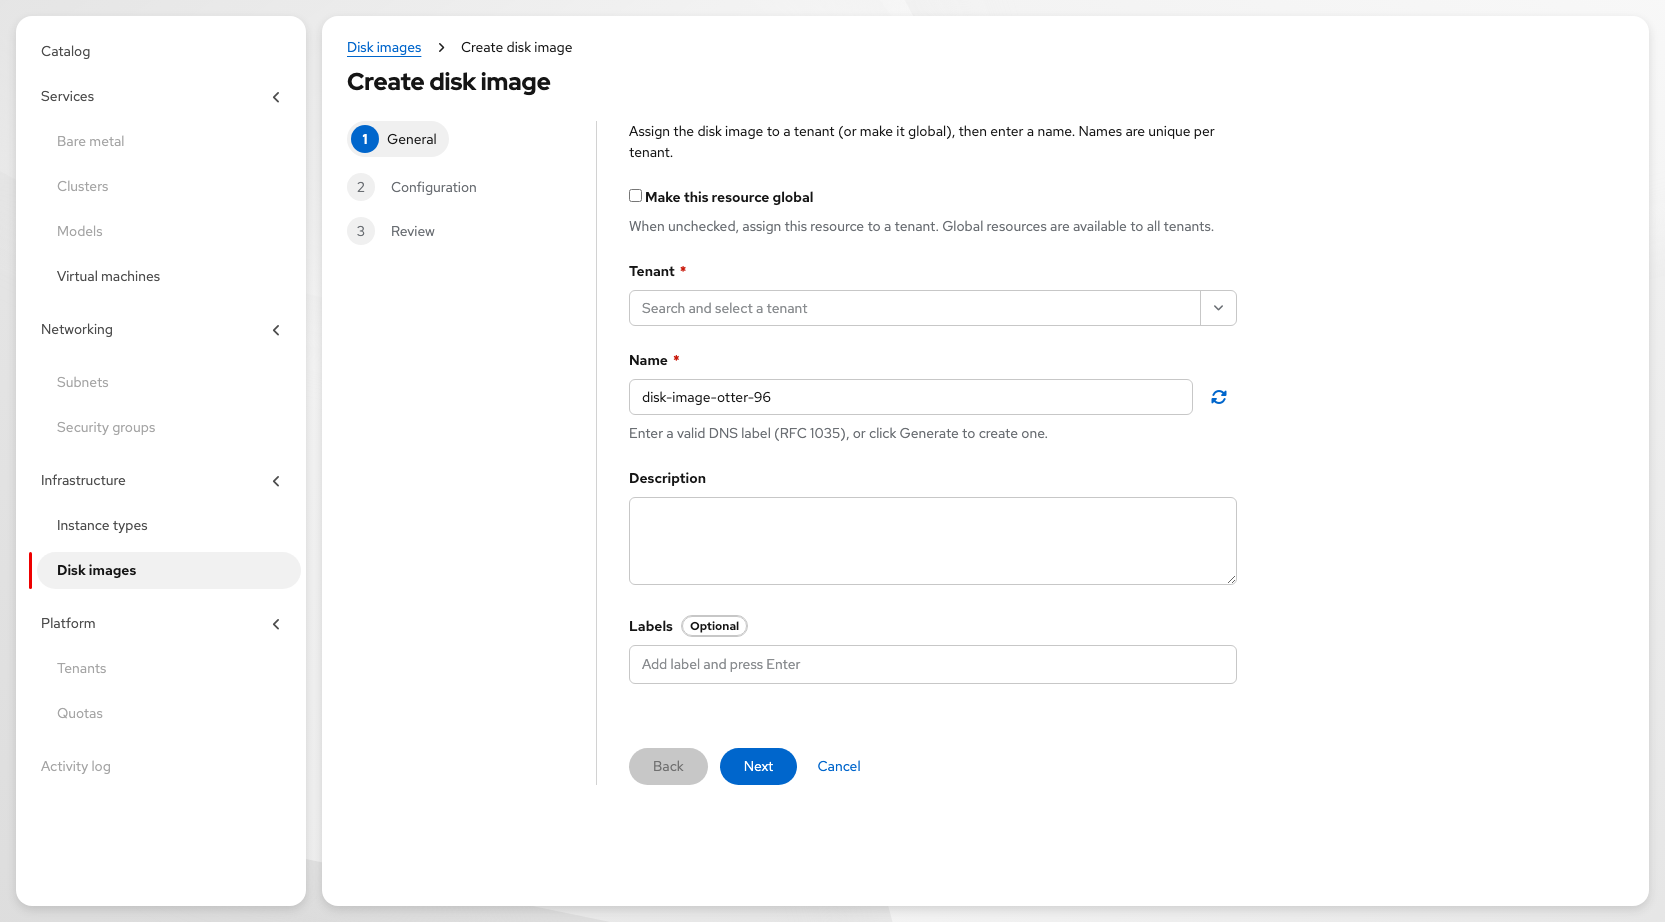
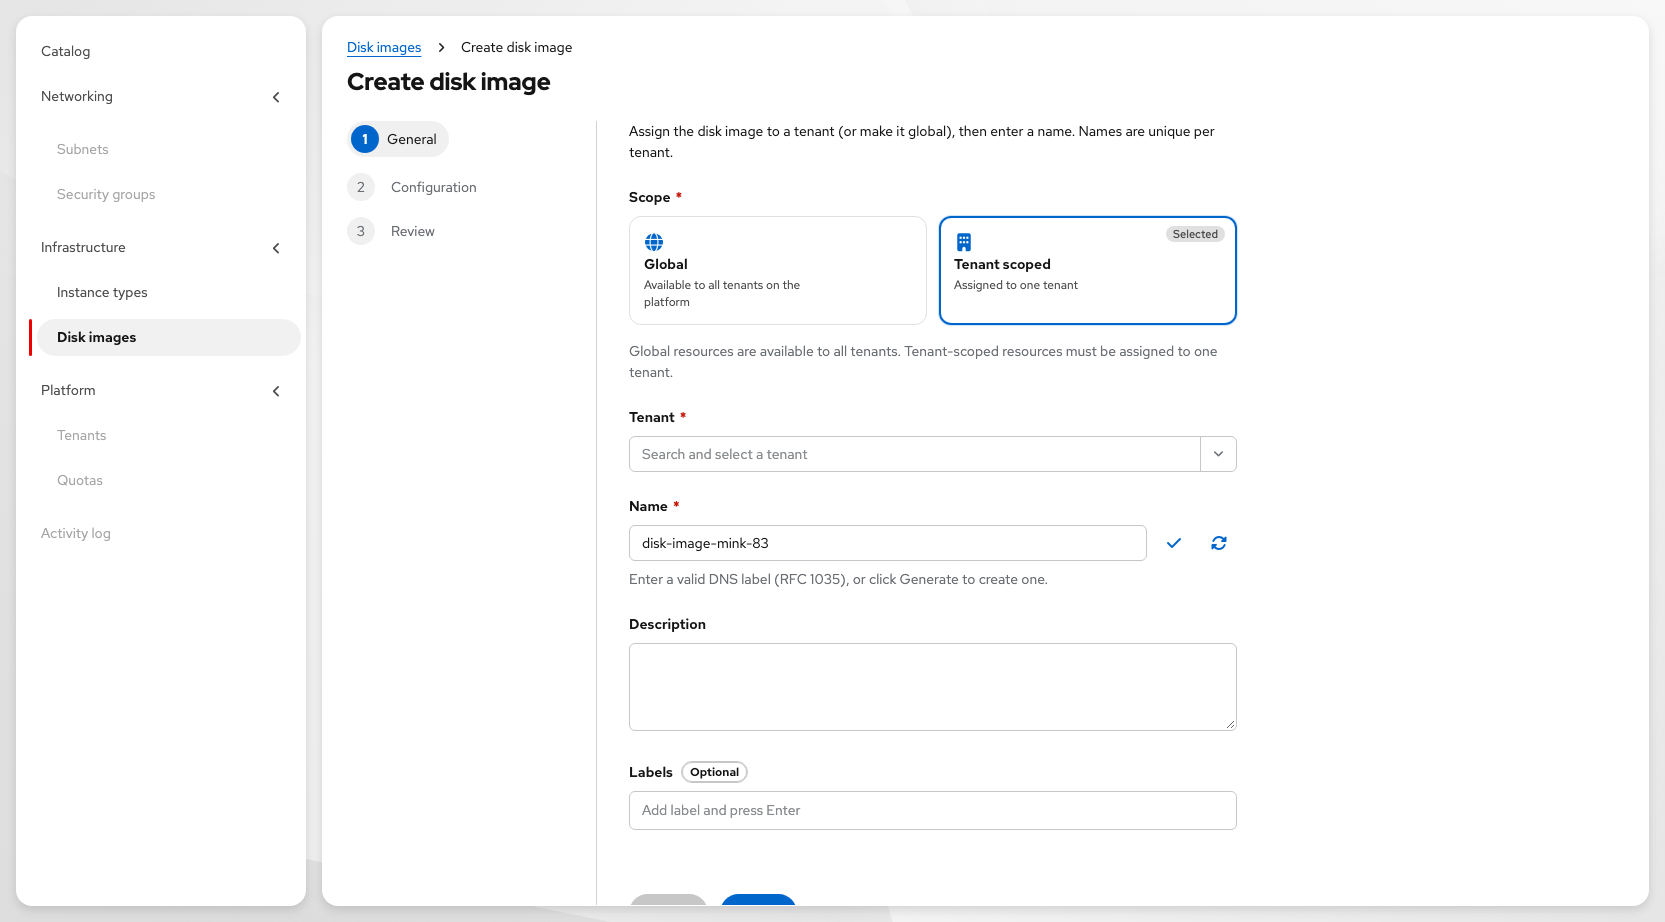
Refresh OSAC-2810 Disk images handoff and screenshots.

diff --git a/osac-2810-disk-image-handoff.md b/osac-2810-disk-image-handoff.md
@@ -10,7 +10,7 @@
 | **Parent epic** | [OSAC-2807](https://redhat.atlassian.net/browse/OSAC-2807) — *DiskImage resource… — Bootstrap* |
 | **Feature** | [OSAC-2540](https://redhat.atlassian.net/browse/OSAC-2540) — *DiskImage resource for disk image metadata management* |
 | **Scope of this handoff** | Provider **Disk images** UX in the shared mock (list · create · detail · lifecycle), as specified in the Disk images UX tab |
-| **Interactive mock** | [vmaas-ux-prototype.html](https://yfrimanm.github.io/openshift-origin-design/vmaas-ux-prototype.html?v=7147&role=provider) |
+| **Interactive mock** | [vmaas-ux-prototype.html](https://yfrimanm.github.io/openshift-origin-design/vmaas-ux-prototype.html?v=7161-disk&role=provider) |
 | **UX source tab** | [VMaaS prototype — UX documentation → Disk images](https://docs.google.com/document/d/1Vfn_9cGj92BOaqFKWE64pnL5Mi8WcCGwEllCVlhAWes/edit?tab=t.uxouanov03p1) |
 | **Status** | OSAC-2810 **Closed**. **Fully covered** for provider Disk images UX tab scope. Broader OSAC-2540 UI gaps are deferred (no UX follow-ups for now; delete-if-referenced left to eng). |
 
@@ -24,29 +24,28 @@ Enable Cloud Provider Admins to manage DiskImage metadata in the console: regist
 
 ## How to review in the mock
 
-1. Open the [mock](https://yfrimanm.github.io/openshift-origin-design/vmaas-ux-prototype.html?v=7147&role=provider) with Role = **Cloud provider admin**.
+1. Open the [mock](https://yfrimanm.github.io/openshift-origin-design/vmaas-ux-prototype.html?v=7161-disk&role=provider) with Role = **Cloud provider admin**.
 2. Nav: **Infrastructure → Disk images**.
 3. Confirm **Show obsolete** is off → `fedora-39` (Obsolete) is hidden; turn it on to reveal.
 4. Open **rhel-9-5** (Available) → Overview + Image columns; Actions: Deprecate / Obsolete.
 5. Open **rhel-9-4** (Deprecated) → Actions: Obsolete / Reactivate.
 6. With Show obsolete on, open **fedora-39** → Actions: Reactivate / Delete.
-7. **Create disk image** → Scope (Global / Tenant) → Configuration (Image, Guest OS, Architecture) → Review → lands on new detail.
+7. **Create disk image** → Scope felt cards (Global / Tenant scoped) → Configuration (Image, Guest OS felt cards, Architecture multi-select) → Review → lands on new detail.
 
 ---
 
-## Coverage vs OSAC-2810 UX tab
-
-Primary acceptance for this ticket is the **Disk images** UX tab (list / create / detail / lifecycle). Against that tab:
+## Coverage vs Disk images UX tab
 
 | Spec item | Status | Notes |
 |---|---|---|
 | List columns: Name, Lifecycle, Guest OS, Architecture, Visibility, Created, Actions | **Covered** | Provider table + kebab |
 | Show obsolete (off by default) | **Covered** | `#di-show-obsolete` |
 | Create CTA | **Covered** | Create disk image |
-| Create: Scope Global / Tenant (felt) + Tenant when scoped | **Covered** | Same pattern as Instance types |
-| Create: Name (DNS), Image (OCI), Guest OS, Architecture multi-select | **Covered** | Also Description + Labels on General (extra vs tab table) |
+| Create General: Scope Global / Tenant (felt) + Tenant when scoped | **Covered** | Same pattern as Instance types |
+| Create General: Name (DNS), Description, Labels | **Covered** | |
+| Create Configuration: Image (OCI), Guest OS felt cards, Architecture multi-select | **Covered** | Guest OS: Linux / Microsoft Windows / Unspecified |
 | Create Review (Nebius sections) → success → detail | **Covered** | |
-| Detail: Overview + Image columns; header Actions | **Covered** | Description not shown on detail (minor) |
+| Detail: Overview + Image columns; header Actions | **Covered** | |
 | Lifecycle: Available→Deprecate/Obsolete; Deprecated→Obsolete/Reactivate; Obsolete→Reactivate/Delete | **Covered** | Mirrors osac-ui actions |
 | Role: Cloud provider admin | **Covered** | Infrastructure nav gated |
 
@@ -90,8 +89,22 @@ Not required for OSAC-2810 acceptance. Captured for awareness; **no UX follow-up
 
 - Feature PRD: [OSAC-2540](https://redhat.atlassian.net/browse/OSAC-2540)
 - Bootstrap epic: [OSAC-2807](https://redhat.atlassian.net/browse/OSAC-2807)
-- Companion screenshot: `videos/vmaas-prototype-ux-doc/15-create-disk-image.png`
-- Aligned eng PRs noted in UX tab: osac-ui PR 164 (list/create), PR 177 (detail)
+- UX tab: [Disk images](https://docs.google.com/document/d/1Vfn_9cGj92BOaqFKWE64pnL5Mi8WcCGwEllCVlhAWes/edit?tab=t.uxouanov03p1)
+- Screenshots: `videos/osac-2810-disk-image-handoff/` · [gh-pages/screenshots/osac-2810](https://github.com/yfrimanm/openshift-origin-design/tree/gh-pages/screenshots/osac-2810)
+- Eng PRs: osac-ui PR 164 (list/create), PR 177 (detail)
+- Prototype build: **7161**
+
+---
+
+## Screenshots (inline in UX tab)
+
+| Figure | File |
+|---|---|
+| Disk images list | `14-disk-images-list.png` |
+| Create — General (Scope felt cards) | `15-create-disk-image.png` |
+| Create — Configuration | `15b-create-disk-image-config.png` |
+| Disk image detail | `16-disk-image-detail.png` |
+| Detail Actions menu | `16b-disk-image-detail-actions.png` |
 
 ---
 
